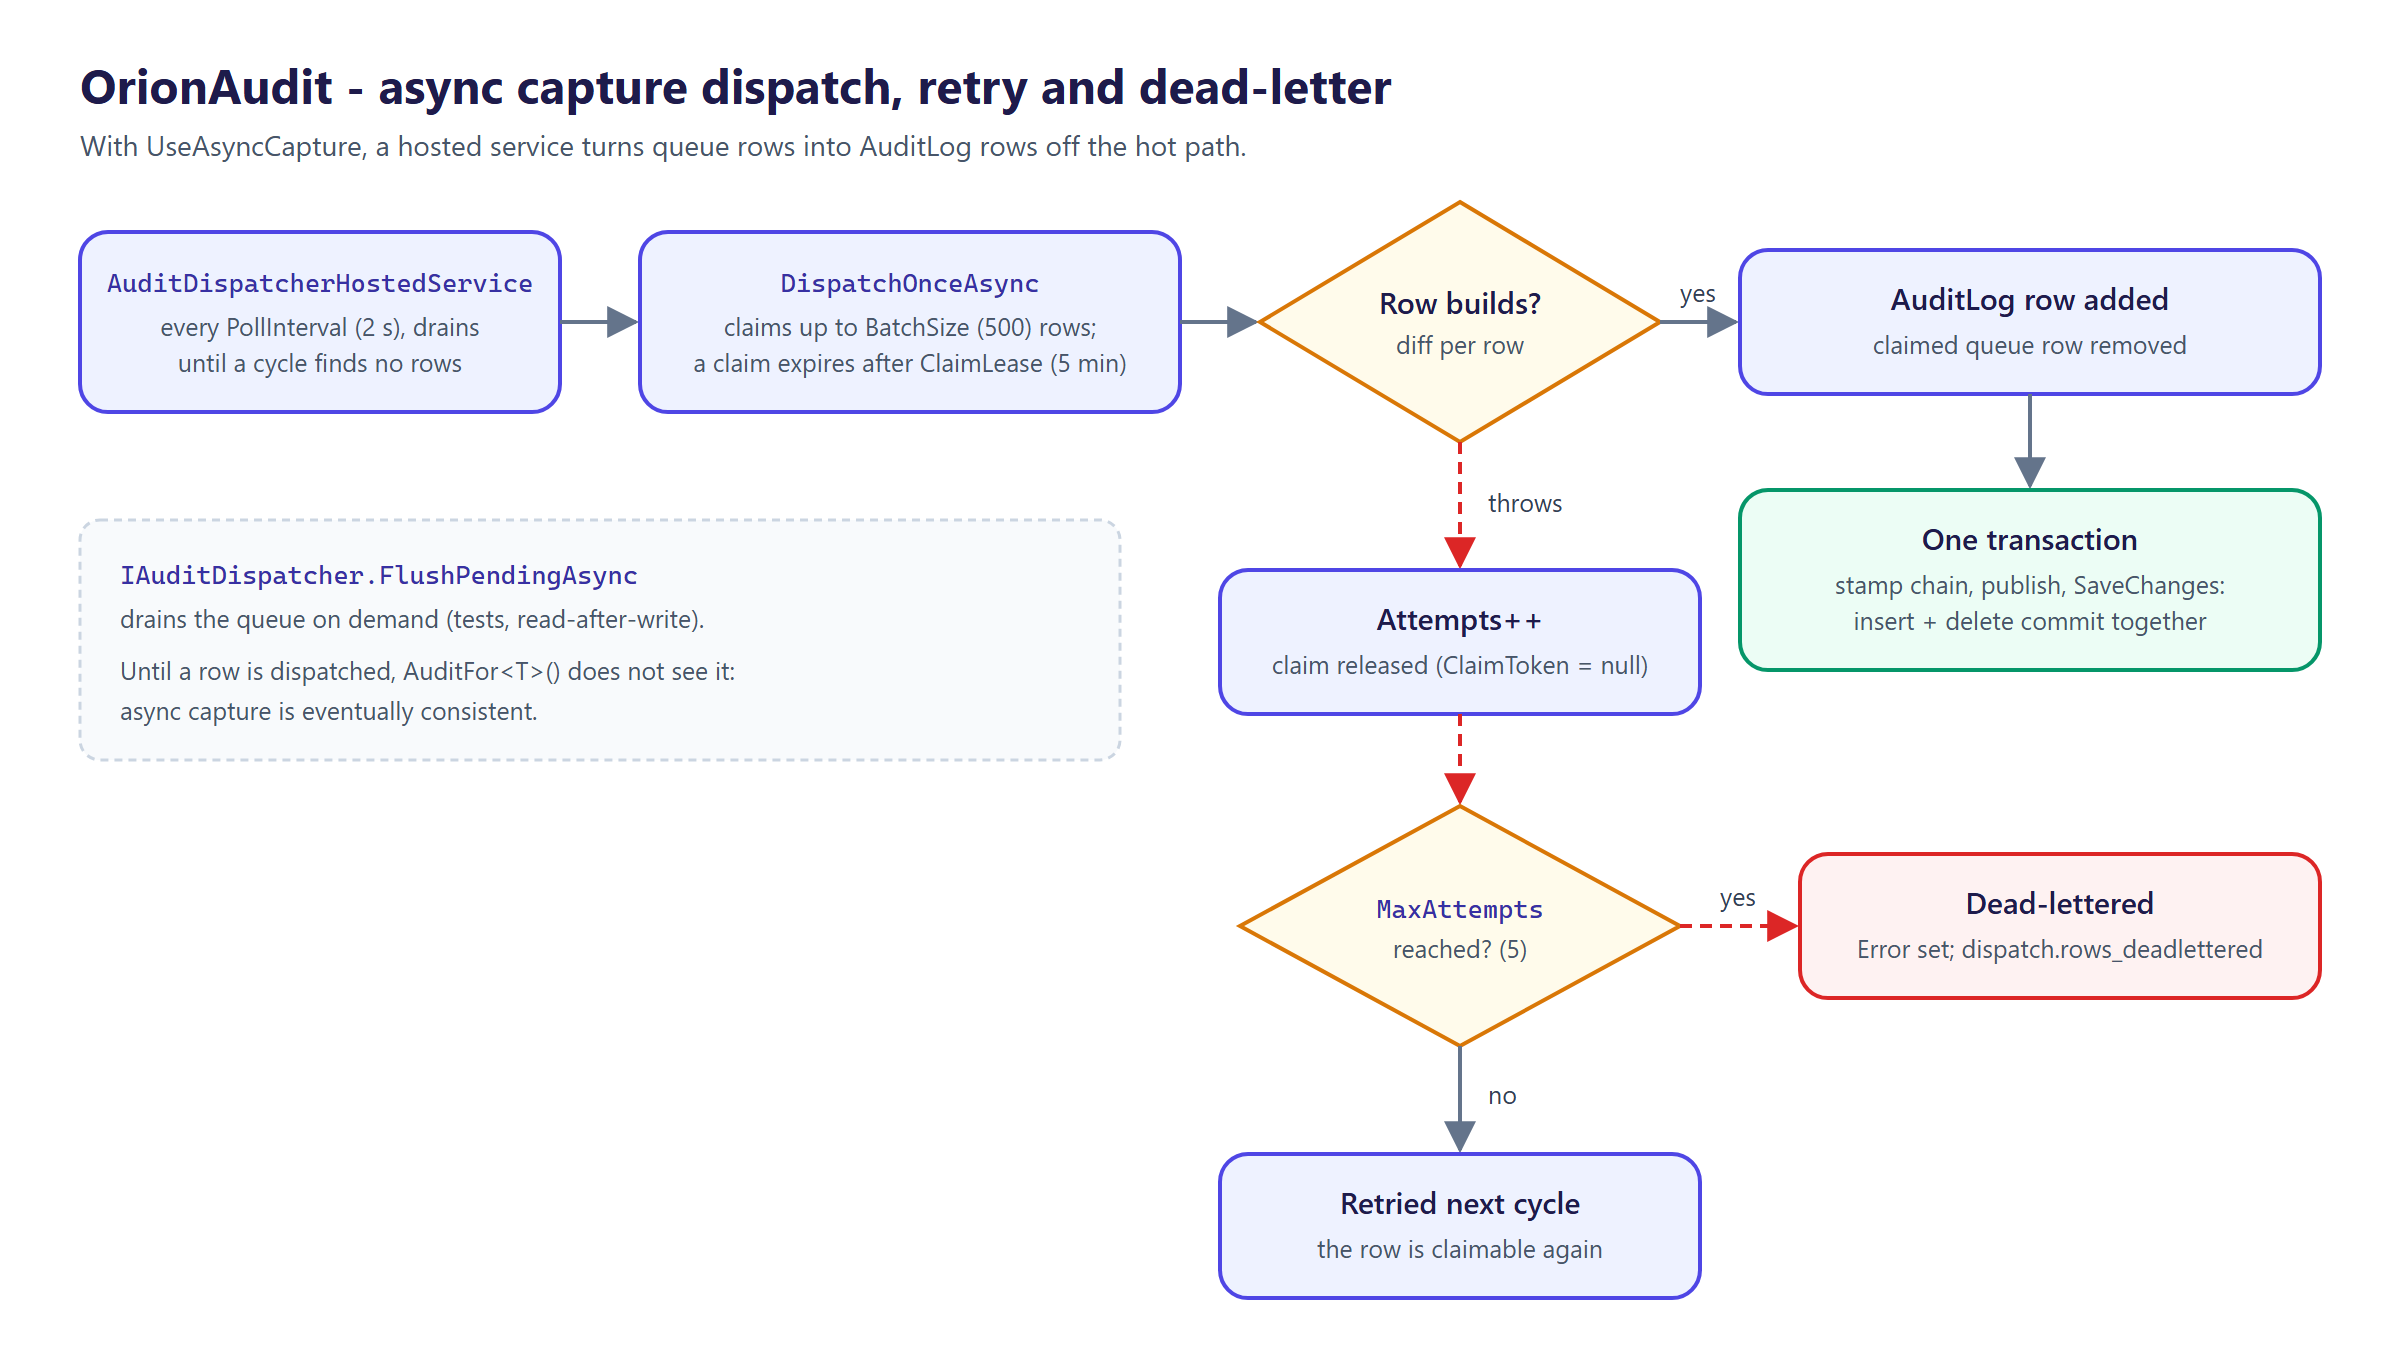
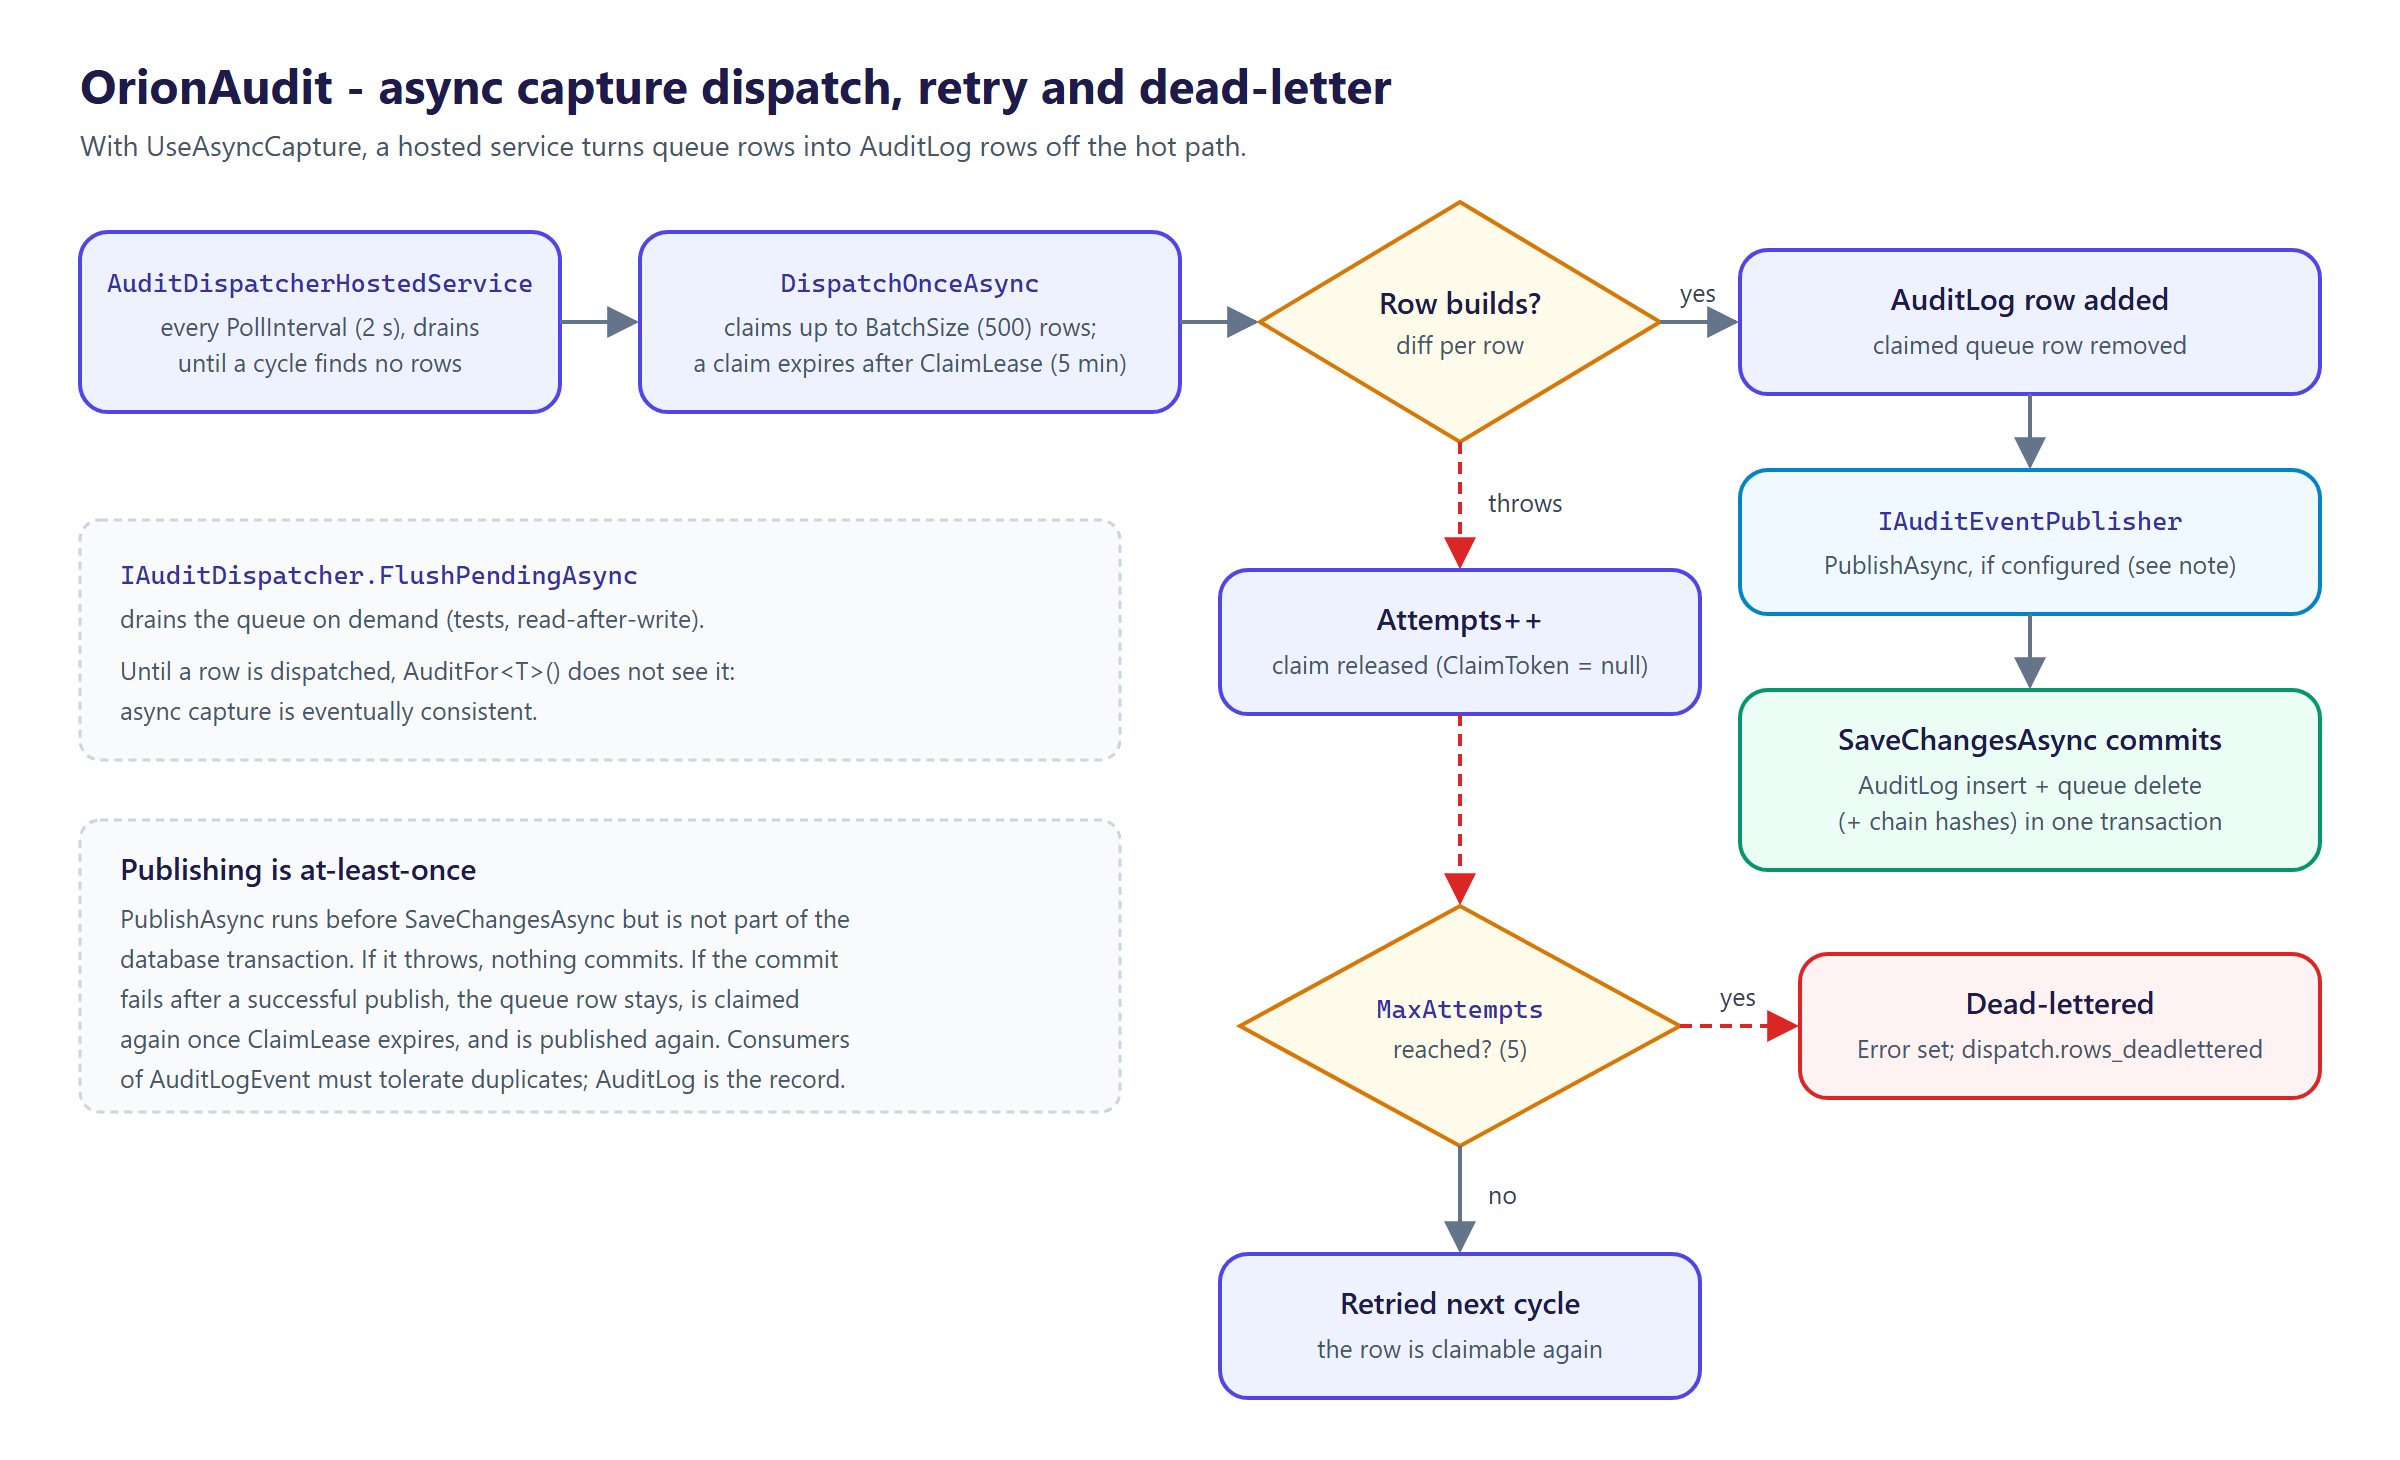
docs: address review feedback on the documentation refresh (#80)
Fixes the statements a review of the documentation refresh found wrong or
incomplete; each change was checked against src/.

diff --git a/README.md b/README.md
@@ -49,7 +49,7 @@
 
 ![OrionAudit capture flow on SaveChanges, sync and async modes](docs/diagrams/capture-flow.png)
 
-In sync mode the `AuditLog` row and the domain rows commit together: either both exist or neither does. A snapshot or diff failure does not abort your save; the row is still written with `Diff = []` and the exception in `Error`. In async mode the same atomicity holds for the queue row, and the dispatcher inserts the final `AuditLog` row and deletes the queue row in one transaction, so deferred rows are exactly-once:
+In sync mode the `AuditLog` row and the domain rows commit together: either both exist or neither does. A snapshot or diff failure does not abort your save; the row is still written with `Diff = []` and the exception in `Error`. In async mode the same atomicity holds for the queue row, and the dispatcher inserts the final `AuditLog` row and deletes the queue row in one transaction, so deferred rows are exactly-once. An `IAuditEventPublisher`, when configured, is called before that commit but is not part of it: if the commit fails after a successful `PublishAsync`, the queue row is claimed again once `ClaimLease` expires and its event is published again (with a new `AuditLog` id), so treat `AuditLogEvent` as an at-least-once notification and the `AuditLog` table as the record:
 
 ![OrionAudit async capture dispatch, retry and dead-letter](docs/diagrams/async-dispatch.png)
 
